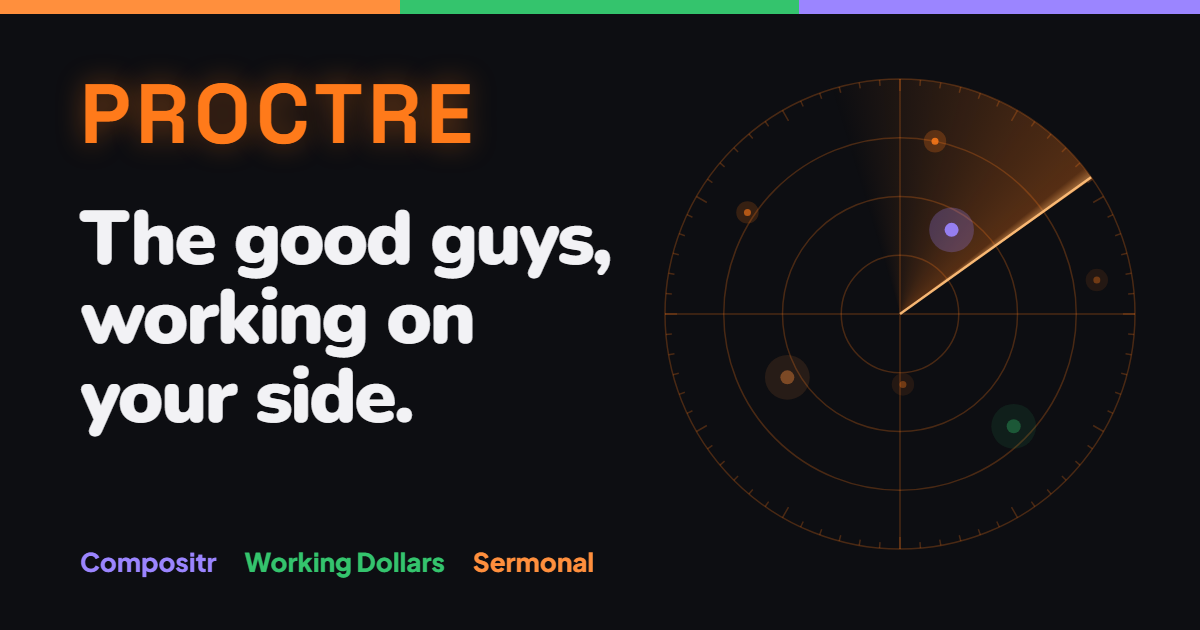
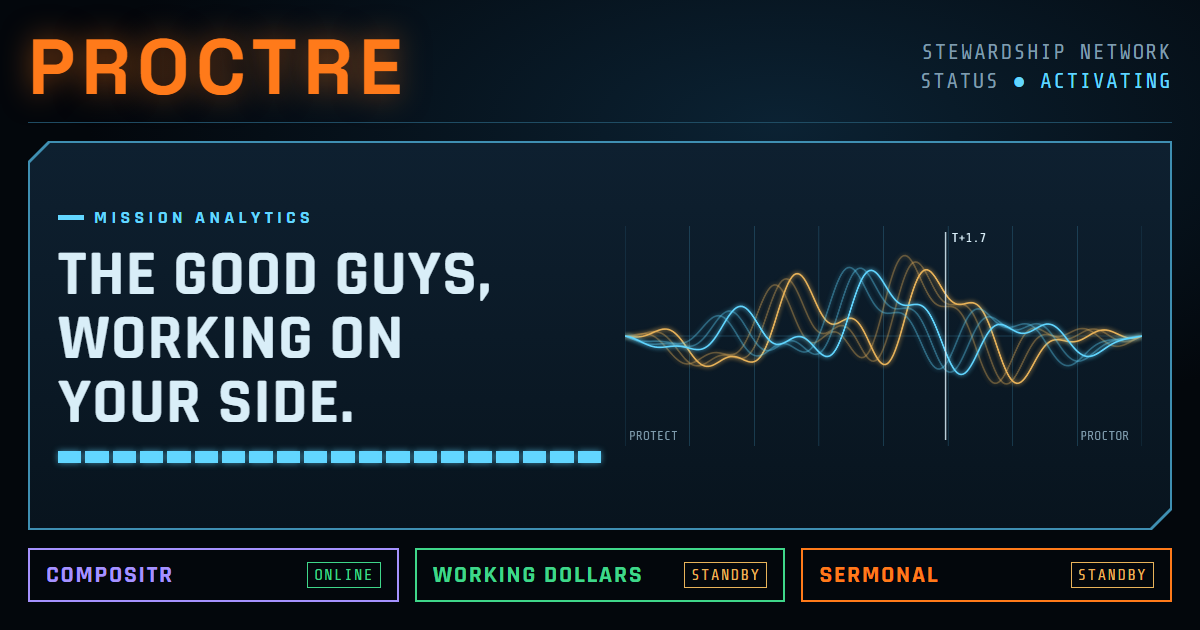
Share card in console style

diff --git a/index.html b/index.html
@@ -15,14 +15,14 @@
 <meta property="og:url" content="https://proctre.com/">
 <meta property="og:title" content="Proctre LLC: the good guys, working on your side">
 <meta property="og:description" content="Practical stewardship of money, time and habits. Home of Compositr, Working Dollars and Sermonal.">
-<meta property="og:image" content="https://proctre.com/og-image.png?v=2">
+<meta property="og:image" content="https://proctre.com/og-image.png?v=3">
 <meta property="og:image:width" content="1200">
 <meta property="og:image:height" content="630">
-<meta property="og:image:alt" content="PROCTRE: The good guys, working on your side. Compositr, Working Dollars and Sermonal.">
+<meta property="og:image:alt" content="PROCTRE console: The good guys, working on your side. Status activating. Compositr online; Working Dollars and Sermonal on standby.">
 <meta name="twitter:card" content="summary_large_image">
 <meta name="twitter:title" content="Proctre LLC: the good guys, working on your side">
 <meta name="twitter:description" content="Practical stewardship of money, time and habits. Home of Compositr, Working Dollars and Sermonal.">
-<meta name="twitter:image" content="https://proctre.com/og-image.png?v=2">
+<meta name="twitter:image" content="https://proctre.com/og-image.png?v=3">
 <link rel="preconnect" href="https://fonts.googleapis.com">
 <link rel="preconnect" href="https://fonts.gstatic.com" crossorigin>
 <link rel="stylesheet" href="https://fonts.googleapis.com/css2?family=Space+Grotesk:wght@700&family=Rajdhani:wght@600;700&family=Share+Tech+Mono&family=Plus+Jakarta+Sans:wght@400;500;600&display=swap">
